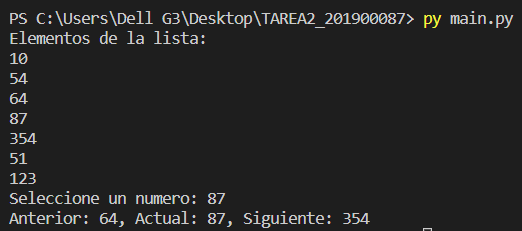
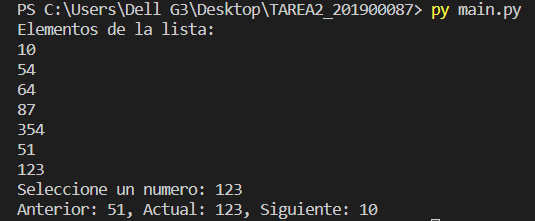
Tarea 2 actualizacion

diff --git a/main.py b/main.py
@@ -24,6 +24,8 @@ class ListaDobleC:
             nuevo.anterior=self.ultimo
             self.ultimo.siguiente=nuevo
         self.ultimo=nuevo
+        self.ultimo.siguiente=self.primero
+        self.primero.anterior=self.ultimo
 
     def imprimir(self):
         print("Elementos de la lista:")
